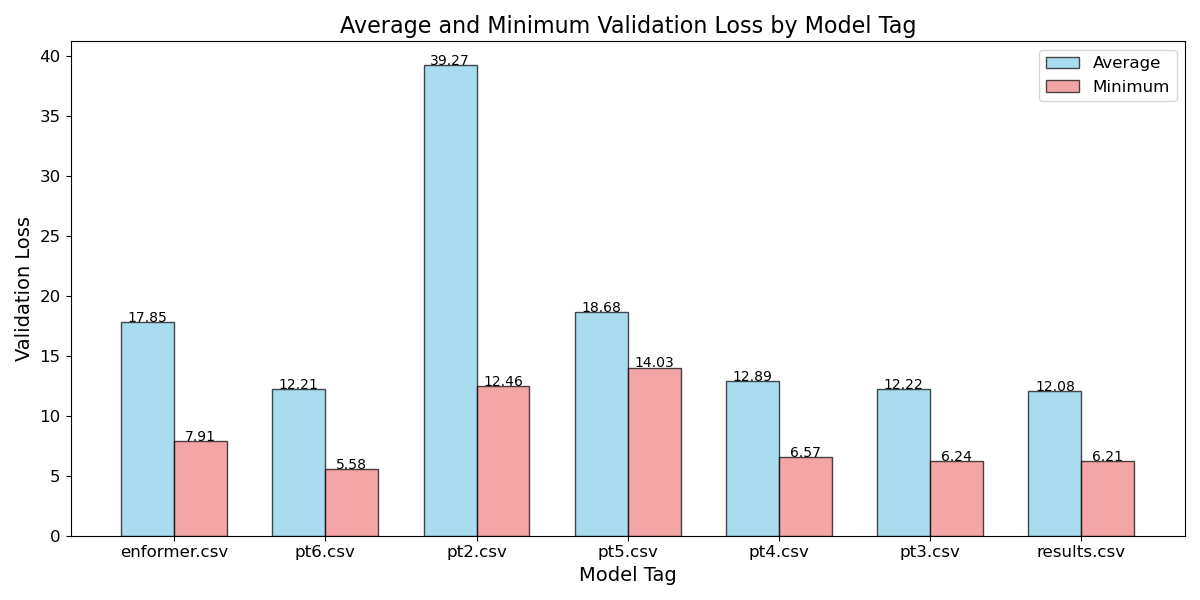
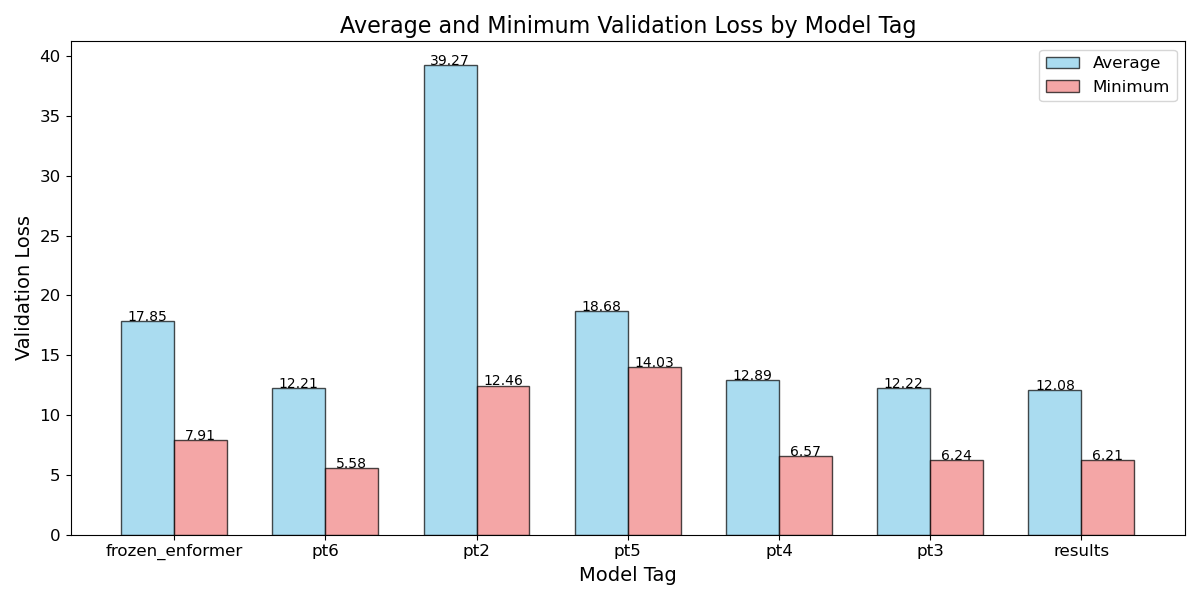
cleaner plot for model performance summary

diff --git a/EDA/compile_per_gene_results.py b/EDA/compile_per_gene_results.py
@@ -250,7 +250,11 @@ def plot_performance_by_tag():
     models = {}
     for file in os.listdir(TRAINING_DIR):
         if file[:16] == "per_gene_results":
-            tag = file.split("_")[-1]
+            tag = file.split("_")
+            print(tag)
+            if len(tag) > 3: tag = "_".join(file.split("_")[3:])[:-4]
+            else: tag = file.split("_")[-1][:-4]
+            print(tag)
             with open(TRAINING_DIR + file) as read_from:
                 for line in read_from:
                     line = line.split(",")
